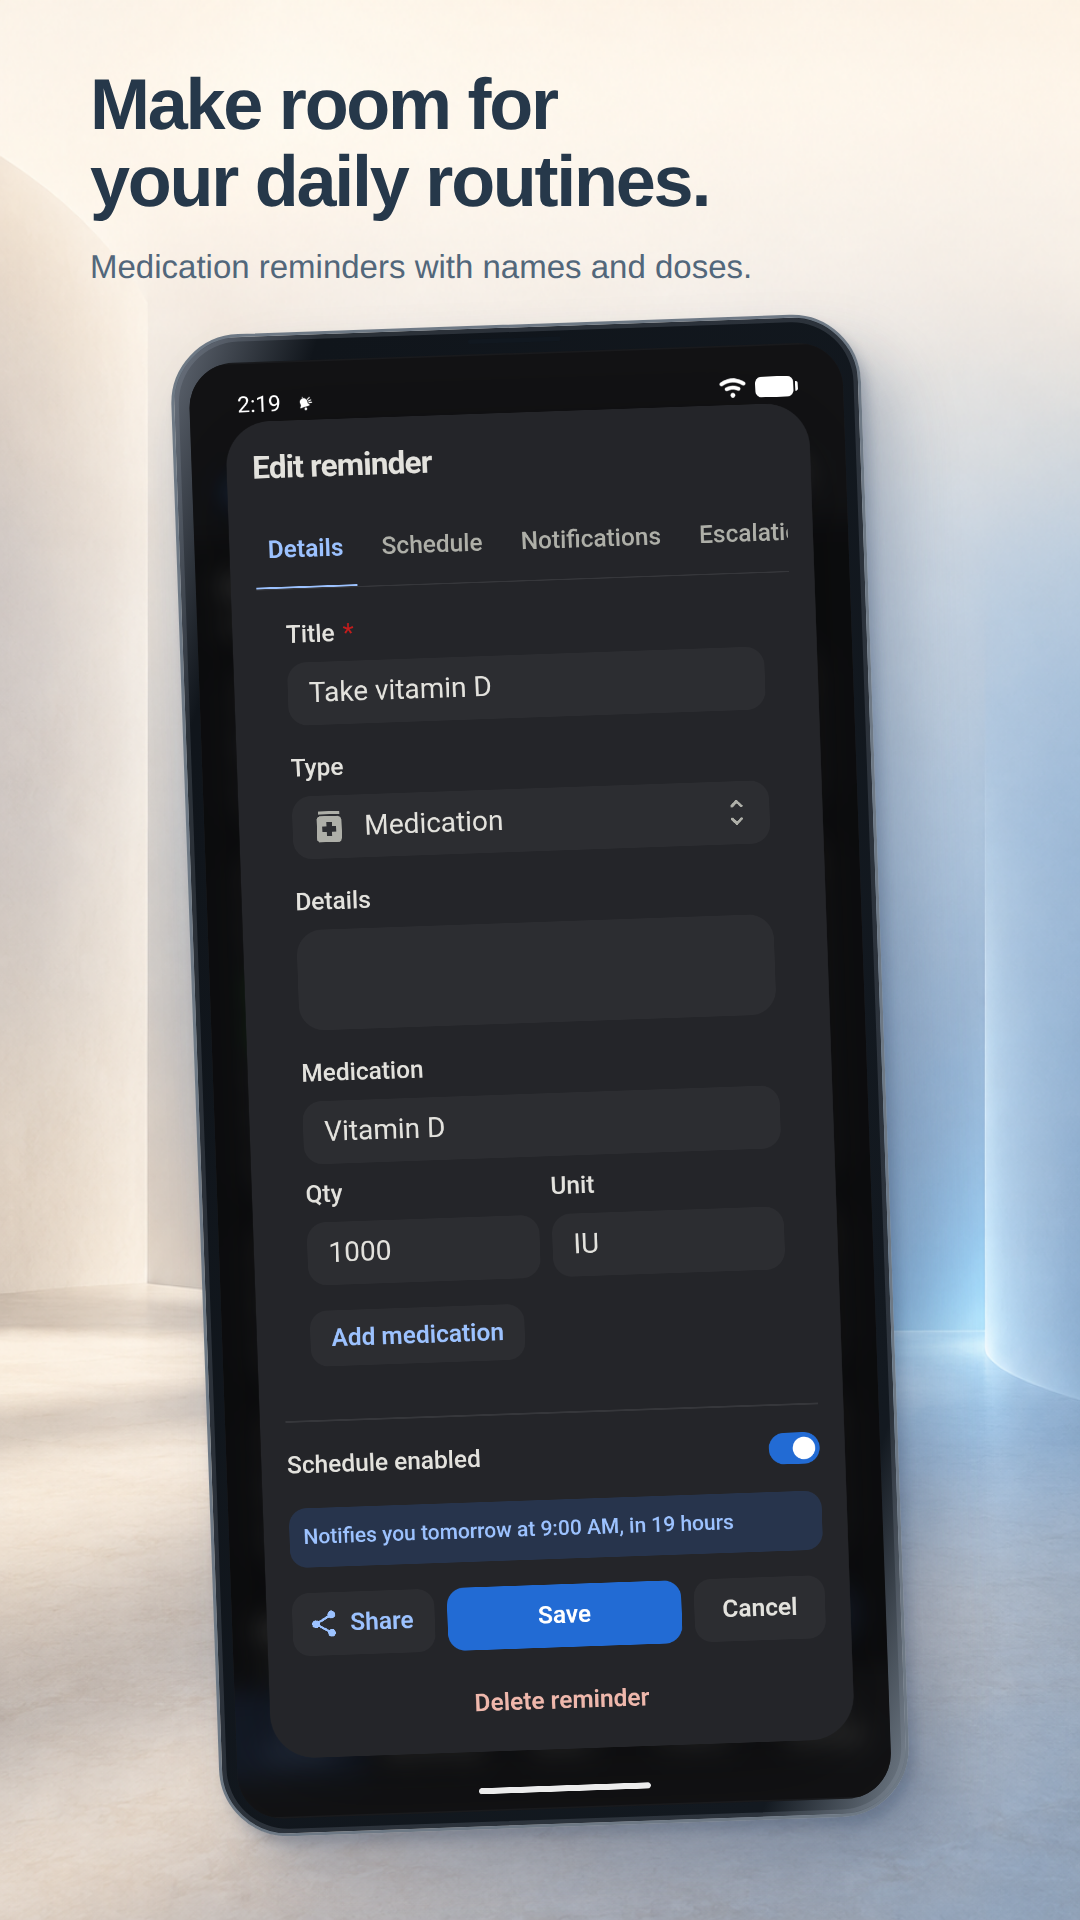
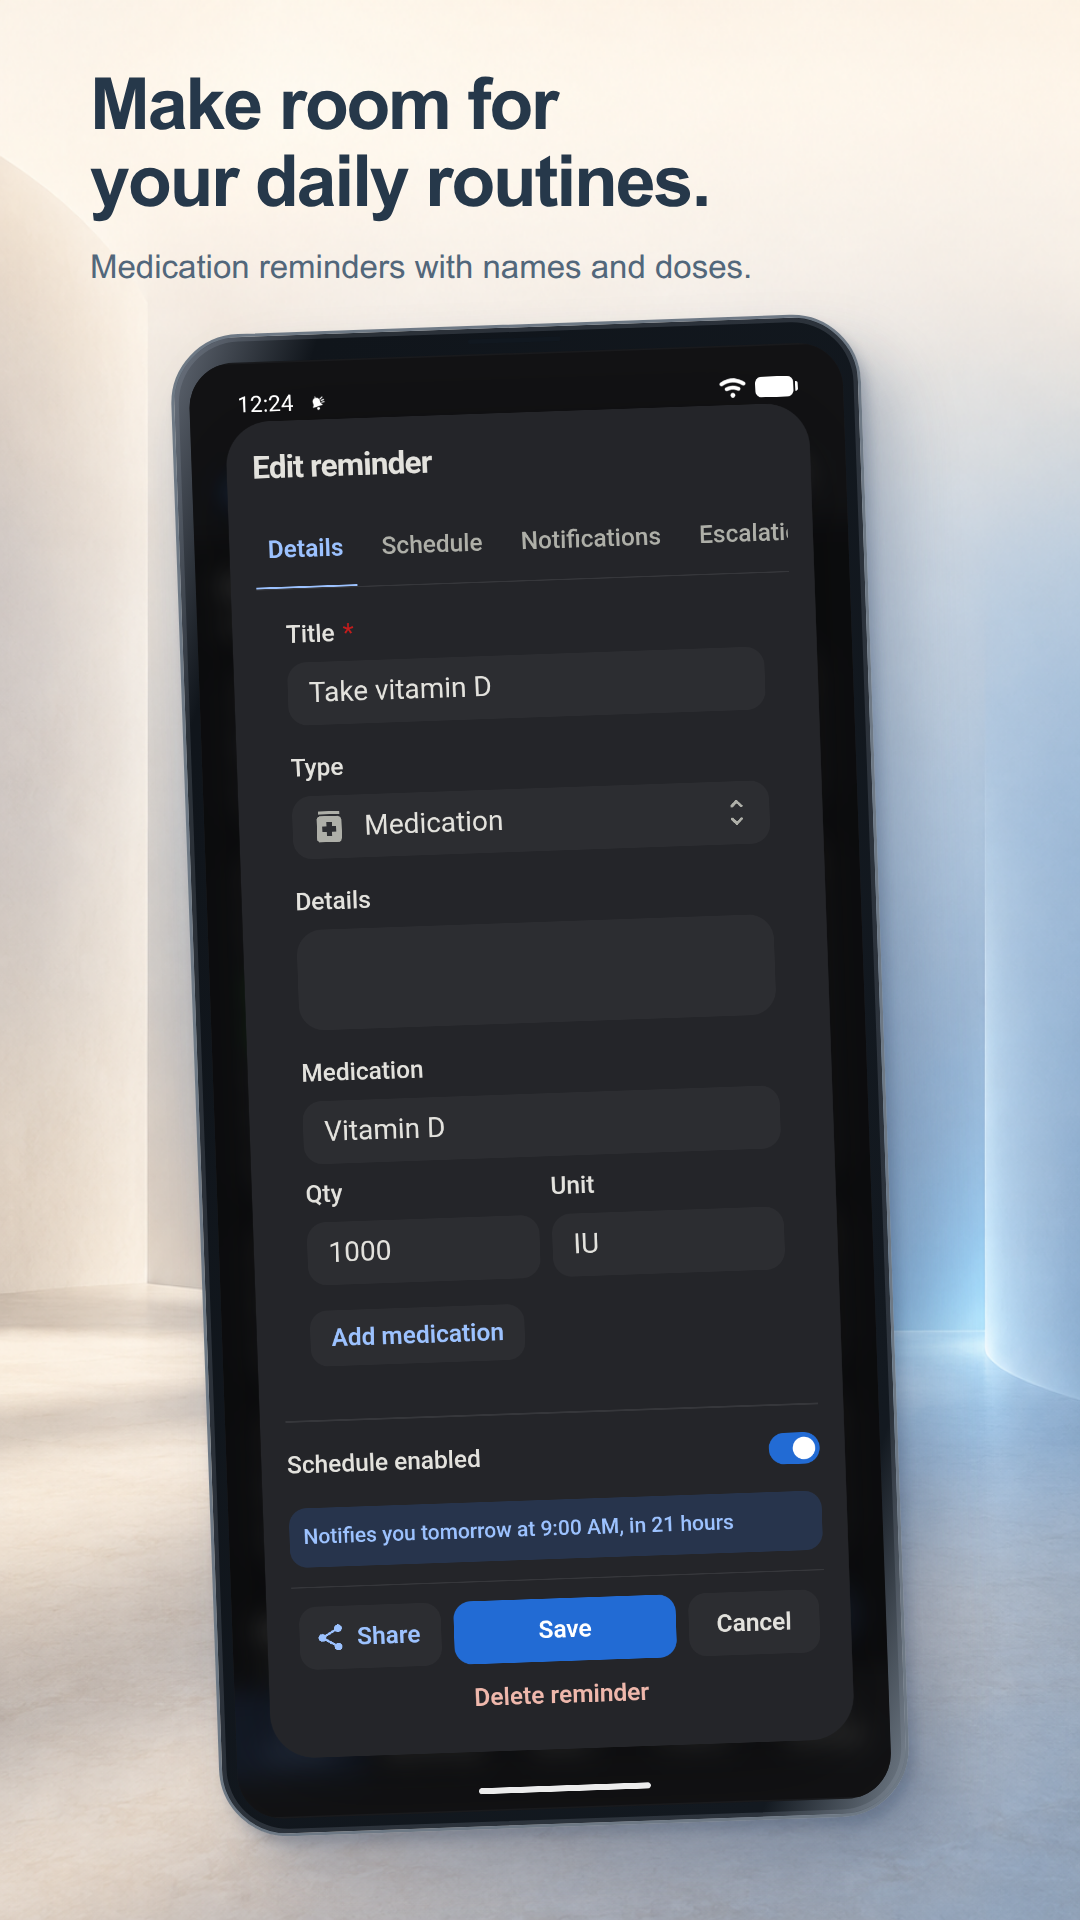
Play screenshots in every listing language
Each of the seven Play listing languages now has its own eight screenshots,
captured with the device, the app and the synthetic demo data in that language
(D-125). The first shot leads with reminders that stay until you are done, and
the shade shot says only Done clears a reminder.

All sets come from the android-vm emulator with SystemUI demo mode, since the
Pixel 5 test phone's status bar shows the wireless-debugging icon and the real
network name. Provenance, including the approved notice dismissals, is in
store-assets/raw/android/native/README.md. The descriptions no longer say the
screenshots show the English interface.

diff --git a/store-assets/play/listings.md b/store-assets/play/listings.md
@@ -123,23 +123,23 @@ Medication reminders store medicine names and doses. The Health apps declaration
 All eight live in `en-US/`, and each Play listing locale with its own record has
 its own eight in its folder, captured with the phone and app in that language and
 the demo account seeded with that locale's synthetic data (health data synthetic
-only). The current en-US eight (provenance in `../raw/android/native/README.md`) are full-display captures with
+only). Every set (provenance in `../raw/android/native/README.md`) is full-display captures with
 the real status area and gesture bar, and no unrelated notification icons.
 All are composed in Paseo
 inside reusable phone mockups, with 1080 x 1920 RGB PNG exports. Marketing copy
 describes the feature without theme names.
 Ordered as they should appear in Play:
 
-| File                             | Shows                                                                                                                         | Theme          |
-| -------------------------------- | ----------------------------------------------------------------------------------------------------------------------------- | -------------- |
-| `00-current-dark.png`            | Current reminders for plants, puppy, and the morning checklist                                                                | Enjoy Dark     |
-| `01-notification-shade-dark.png` | Four distinct reminders, native Done and Snooze actions, and copy explaining that swiped notifications return until confirmed | Android system |
-| `02-alarm-dark.png`              | Real ignored-reminder escalation into an alarm with Done, Snooze, and De-escalate controls                                    | Enjoy Dark     |
-| `03-checklist-dark.png`          | Reading dialog with a part-completed checklist and reminder controls below it                                                 | Enjoy Dark     |
-| `04-medication-dark.png`         | Synthetic vitamin reminder editor with medicine name and 1000 IU dose                                                         | Enjoy Dark     |
-| `05-sharing-dark.png`            | Share or assign dialog with a staged sample recipient                                                                         | Enjoy Dark     |
-| `06-notes-dark.png`              | Trip-packing note checklist, without an alarm                                                                                 | Enjoy Dark     |
-| `07-assigned-dark.png`           | Assigned by me status with a synthetic completion record                                                                      | Enjoy Dark     |
+| File                             | Shows                                                                                                              | Theme          |
+| -------------------------------- | ------------------------------------------------------------------------------------------------------------------ | -------------- |
+| `00-current-dark.png`            | Current reminders for plants, puppy, and the morning checklist, and copy explaining that reminders stay until done | Enjoy Dark     |
+| `01-notification-shade-dark.png` | Four distinct reminders, native Done and Snooze actions, and copy explaining that only Done clears a reminder      | Android system |
+| `02-alarm-dark.png`              | Real ignored-reminder escalation into an alarm with Done, Snooze, and De-escalate controls                         | Enjoy Dark     |
+| `03-checklist-dark.png`          | Reading dialog with a part-completed checklist and reminder controls below it                                      | Enjoy Dark     |
+| `04-medication-dark.png`         | Synthetic vitamin reminder editor with medicine name and 1000 IU dose                                              | Enjoy Dark     |
+| `05-sharing-dark.png`            | Share or assign dialog with a staged sample recipient                                                              | Enjoy Dark     |
+| `06-notes-dark.png`              | Trip-packing note checklist, without an alarm                                                                      | Enjoy Dark     |
+| `07-assigned-dark.png`           | Assigned by me status with a synthetic completion record                                                           | Enjoy Dark     |
 
 The root README embeds `00`, `03`, and `05` from this directory, without separate
 copies. Native permission videos remain separate.

diff --git a/store-assets/raw/android/native/README.md b/store-assets/raw/android/native/README.md
@@ -1,6 +1,18 @@
 # Native Android capture provenance
 
-This records the en-US set, in `en-US/`; each other locale's set is recorded when it is captured. Captured on November 19, 2026, between 2:19 p.m. and 2:28 p.m. Toronto time, on the shared `android-vm` emulator (API 37 Google Play image, Pixel 7 profile, 1080 x 2400), not on a personal phone. The web app came from the development working tree at `b504c98` (Persistent 0.31.1, React 19, web-app-kit 0.2.0), loaded by the direct-debug package `ca.persistent.app` through `adb reverse` to the local Vite server. The app was installed fresh for the session and signed in only to the protected synthetic account `demo@example.test`, prepared with `npm run shots:prepare`.
+## Localized set, November 27, 2026
+
+All seven Play listing locales (`en-US`, `ja-JP`, `de-DE`, `es-ES`, `fr-FR`, `pt-BR`, `zh-CN`) were captured on November 27, 2026, between 12:23 p.m. and about 2:00 p.m. Toronto time, on the shared `android-vm` emulator (API 37 Google Play image, Pixel 7 profile, 1080 x 2400), not on a personal phone. The web app came from the development working tree at `b3dbf7b`, loaded by the direct-debug package `ca.persistent.app` through `adb reverse` to the local Vite server, signed in only to the protected synthetic account `demo@example.test`. Each locale was seeded with `npm run shots:prepare -- --locale=<locale>` immediately before its captures, with that locale's sample text from `store-assets/demo-text.json`.
+
+For each locale the emulator's system language was switched with `cmd locale set-device-locale` (zh-CN as `zh-Hans-CN`), the demo app restarted, and the web app left on the device language and its default formats (en-US keeps 12-hour times). All captures are Enjoy Dark, doodles off. Views were opened by route and fixture id through the WebView debug connection, with a fresh load per view. The sharing recipient was staged in an unsaved draft, the medication editor was not saved, and no checklist item or Done was pressed. Each alarm is the real `AlarmActivity` for a temporary "Check the oven" reminder in that locale, created through the ordinary authenticated API with a one-minute escalation; it escalated and raised itself, then the app was force-stopped and only that reminder deleted. The shade shows four distinct demo reminders with the plant reminder's real Done and Snooze controls expanded.
+
+With Ryan's approval for these captures on this emulator only, the PhoneLock test app (`home.phonelock.parent`) was force-stopped so its permanent notice was absent from the shade, and Android's "physical keyboard configured" and "storage space running low" notices, which the language switches raised, were dismissed. No other notification was dismissed and nothing was retouched. The emulator session used the same temporary state as the en-US set below (Toronto time zone, night mode, SystemUI demo mode with the real time on the clock), all restored afterwards, and the system language was restored to en-US.
+
+The captures were reencoded from opaque RGBA to 24-bit RGB without cropping, scaling or retouching. The Play compositions were rendered by `npm run shots:render` and captured in headless Chromium at 720 x 1280 CSS pixels and a device scale of 1.5, producing 1080 x 1920 exports, with Arial, Yu Gothic (ja-JP) and Microsoft YaHei (zh-CN) as the page fonts.
+
+## en-US set, November 19, 2026 (superseded)
+
+This records the earlier en-US set, replaced by the localized set above. Captured on November 19, 2026, between 2:19 p.m. and 2:28 p.m. Toronto time, on the shared `android-vm` emulator (API 37 Google Play image, Pixel 7 profile, 1080 x 2400), not on a personal phone. The web app came from the development working tree at `b504c98` (Persistent 0.31.1, React 19, web-app-kit 0.2.0), loaded by the direct-debug package `ca.persistent.app` through `adb reverse` to the local Vite server. The app was installed fresh for the session and signed in only to the protected synthetic account `demo@example.test`, prepared with `npm run shots:prepare`.
 
 All eight captures are Enjoy Dark, with 12-hour times and doodles off. Notifications, display over other apps and background running were granted through the ordinary Android screens.
 

diff --git a/apps/mobile/README.md b/apps/mobile/README.md
@@ -298,7 +298,7 @@ If no universal APK exists or certificate verification fails, publication stops.
 
 The canonical localized titles and descriptions live in `store-assets/play/listings.json`; `store-assets/play/listings.md` holds the Console-only settings, screenshot inventory and Console guidance. The manual `play-listing` workflow defaults to a read-only comparison and publishes text, preserving existing graphics and country distribution. Its opt-in `images` input also sets every language's phone screenshots from its own locale's `play` files in `store-assets/manifest.json`, in manifest order (en-CA and fr-CA get en-US's and fr-FR's). Check mode validates every locale's files and reports the plan without writing. All nine Play tags match the application locale identities; Canadian English and French reuse their corresponding wording. Release notes are per version, in every wording, in the root `release-notes/` folder (see its README); the release and notes-repair workflows send them and never generate notes. See `../../docs/notes/android-release-0.29.0.md` for the complete release audit and commands.
 
-Screenshot replacement remains separately available through the legacy `--listing` invocation (English copy from `store-assets/play/listings.json`, screenshots from `store-assets/play/en-US/`) when explicitly requested. Refresh screenshots with `../../store-assets/README.md` and the `store-screenshots` skill. The current eight-image carousel contains English captions and screenshots, including native notification/alarm surfaces; translations disclose the English graphics.
+Screenshot replacement remains separately available through the legacy `--listing` invocation (English copy from `store-assets/play/listings.json`, screenshots from `store-assets/play/en-US/`) when explicitly requested. Refresh screenshots with `../../store-assets/README.md` and the `store-screenshots` skill. Each language has its own eight-image carousel, including native notification and alarm surfaces, captured and captioned in that language.
 
 Language selection works before sign-in. Android 13 and newer use the OS per-app language setting; the in-app selector updates it. Earlier Android versions keep a private device override and migrate an older hosted-web choice once on upgrade, preserving a later Match device reset. Native catalogs are copied from `packages/shared/src/messages` by `setup-android.mjs` for offline/background/restart presentation; generated `android/` is not authoritative. See `../../docs/localization.md` for the exact additive bridge and FCM range contract.
 

diff --git a/store-assets/play/play-readiness.md b/store-assets/play/play-readiness.md
@@ -434,7 +434,7 @@ failing the release.
 
 [`listings.json`](listings.json) is the canonical nine-locale title/short/full description source. Canadian aliases retain separate Play tags. [`listings.md`](listings.md) holds the Console-only settings and inventories the existing eight screenshots. The manual `play-listing` workflow (`workflow_dispatch`) defaults to `check`, then publishes text when requested. Existing locales use PATCH and new locales use PUT inside a single edit. Its opt-in `images` input also sets every locale's phone screenshots from its own `play` files in `../manifest.json` (en-CA and fr-CA get en-US's and fr-FR's), in the same edit. Without it, no image endpoint is mutated. No video, icon, feature graphic, contact, default-language, policy or country endpoint is mutated. Unknown existing translations are preserved. The validator checks every locale and limit before OAuth.
 
-The separate legacy `--listing` mode (English copy from `listings.json`, screenshots from `en-US/`) can still replace screenshots when explicitly authorized. Its delete and uploads share one edit, and file order determines carousel order. English screenshot captions are retained for this localization release, with that boundary disclosed in each translated description. Release notes are per version in the root `release-notes/` folder; every wording must fit 500 characters, and nothing is truncated.
+The separate legacy `--listing` mode (English copy from `listings.json`, screenshots from `en-US/`) can still replace screenshots when explicitly authorized. Its delete and uploads share one edit, and file order determines carousel order. Each locale has its own screenshots and captions, so the descriptions no longer disclose English graphics. Release notes are per version in the root `release-notes/` folder; every wording must fit 500 characters, and nothing is truncated.
 
 Play wants **24-bit PNG with no alpha**; `adb exec-out screencap` produces RGBA, so
 device shots need `magick … -alpha remove -alpha off`. The script checks this (plus

diff --git a/store-assets/README.md b/store-assets/README.md
@@ -25,8 +25,8 @@ separate capture path on disposable devices, with a synthetic-only temporary
 server and a free-only submission guard. Check its runtime verification status
 before using its results as store sources.
 
-Use the isolated demo Android app on the Pixel 5 test phone, following the native
-capture setup below. `scripts/dev/capture-phone-store.sh [locale ...]` runs the whole
+Use the isolated demo Android app on the shared `android-vm` emulator with SystemUI demo mode, following the native
+capture setup below. Every current set comes from it (`raw/android/native/README.md`): the Pixel 5 test phone shows Android's wireless-debugging icon and the real network name in the shade, which a clean Store shot cannot include. `scripts/dev/capture-phone-store.sh [locale ...]` is a guided version for the Pixel 5 test phone, should its status bar ever be clean enough. It runs the whole
 set for every Play listing locale: it seeds each locale, switches the phone's system
 language (through the Appium Settings helper, which must already be installed with
 Ryan's go-ahead), restarts the demo app, prompts for each scenario with that
@@ -92,7 +92,7 @@ to stop the sound promptly. Delete only the newly created reminder from the
 verified local demo account. Never press Done for a screenshot.
 
 Capture the actual screen with `adb -s <serial> exec-out screencap -p > <path>.png`.
-The current en-US set came from the android-vm emulator (see `raw/android/native/README.md`); new sets come from the Pixel 5 test phone, so check each capture's actual size. Android captures are RGBA; run
+The current sets came from the android-vm emulator at 1080 x 2400 (see `raw/android/native/README.md`); check each capture's actual size. Android captures are RGBA; run
 `scripts/dev/convert-store-capture.ps1` with `-InputPath` and `-OutputPath` to save
 the same dimensions and pixels as Store-compatible RGB. It uses the existing
 Windows image runtime. If RemoteSigned rejects a WSL UNC script, execute a

diff --git a/store-assets/play/README.md b/store-assets/play/README.md
@@ -2,15 +2,15 @@
 
 Eight 1080 x 1920 RGB PNGs per Play listing locale, with real app captures and synthetic data in that language. English is shown here; each locale's set is in its own folder (`de-DE/` and so on), framed with its headlines and captions from `listings.json`. Includes the real Android notification shade and escalation alarm. Uploading is a separate step: run the Play Listing workflow with `images` enabled, first in `check` mode.
 
-## Keep the important things in sight.
+## Reminders that stay until you're done.
 
-Every reminder waits for your confirmation.
+They stay in your notifications and come back if you swipe them away.
 
 ![Enjoy Dark Current view with plants, puppy, and a part-completed morning checklist.](en-US/00-current-dark.png)
 
 ## Swipe it away? It comes back.
 
-Reminders return until you confirm they're done.
+Only Done clears a reminder.
 
 ![Real Android notification shade, in dark mode, with four distinct synthetic reminders and the plant reminder's Done and Snooze actions expanded.](en-US/01-notification-shade-dark.png)
 
